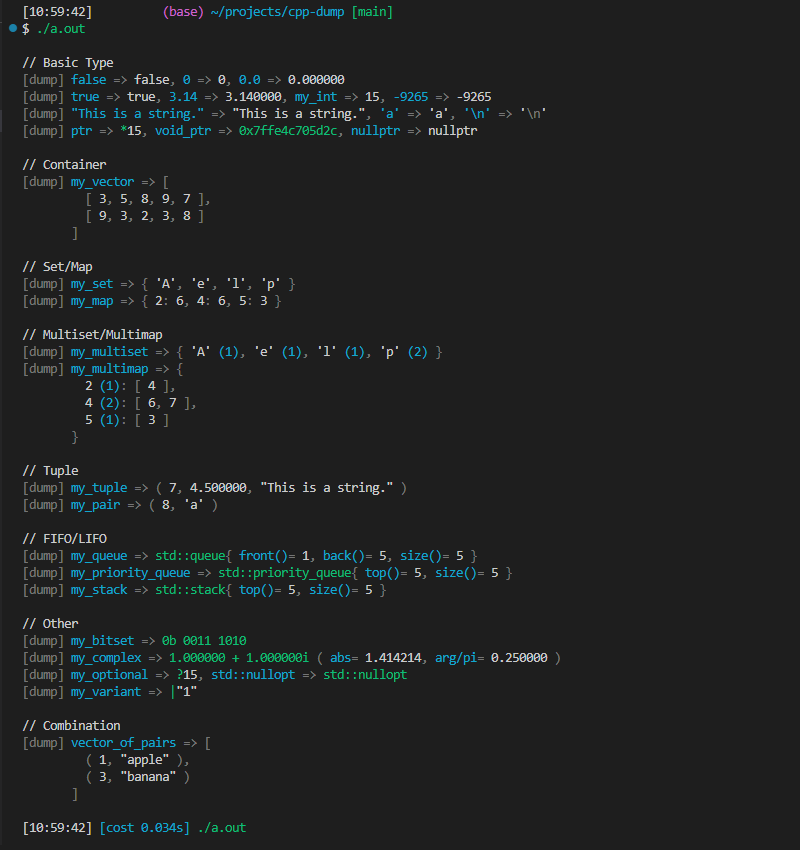
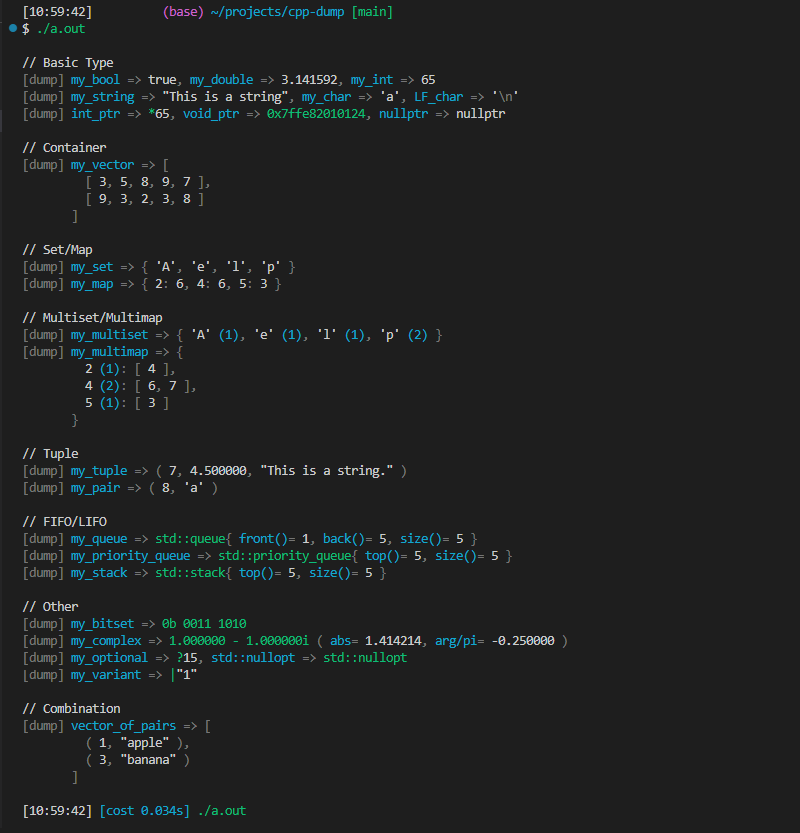
improve README.md

diff --git a/readme/customizable-colors.cpp b/readme/customizable-colors.cpp
@@ -50,8 +50,12 @@ int main() {
   // Use a color scheme closer to standard syntax highlighting.
   // CPP_DUMP_SET_OPTION(es_style, cp::types::es_style_t::by_syntax);
 
-  int my_int = 15;
-  int *ptr = &my_int;
+  bool my_bool = true;
+  double my_double = 3.141592;
+  int my_int = 65;
+  char my_char = 'a', LF_char = '\n';
+  std::string my_string = "This is a string";
+  int *int_ptr = &my_int;
   void *void_ptr = &my_int;
   std::vector<std::vector<int>> my_vector{{3, 5, 8, 9, 7}, {9, 3, 2, 3, 8}};
   std::set<char> my_set{'A', 'p', 'p', 'l', 'e'};
@@ -65,14 +69,14 @@ int main() {
   std::stack<int> my_stack;
   for (auto v : {1, 2, 3, 4, 5}) my_queue.push(v), my_priority_queue.push(v), my_stack.push(v);
   std::bitset<8> my_bitset(0x3a);
-  std::complex<double> my_complex{1.0, 1.0};
+  std::complex<double> my_complex{1.0, -1.0};
   std::optional<int> my_optional{15};
   std::variant<int, std::string> my_variant{"1"};
   std::vector<std::pair<int, std::string>> vector_of_pairs{{1, "apple"}, {3, "banana"}};
 
   std::clog << "\n// Basic Type" << std::endl;
-  cpp_dump(false, 0, 0.0), cpp_dump(true, 3.14, my_int, -9265);
-  cpp_dump("This is a string.", 'a', '\n'), cpp_dump(ptr, void_ptr, nullptr);
+  cpp_dump(my_bool, my_double, my_int), cpp_dump(my_string, my_char, LF_char);
+  cpp_dump(int_ptr, void_ptr, nullptr);
 
   std::clog << "\n// Container" << std::endl;
   cpp_dump(my_vector);

diff --git a/readme/no-es.cpp b/readme/no-es.cpp
@@ -18,8 +18,12 @@ namespace cp = cpp_dump;
 int main() {
   CPP_DUMP_SET_OPTION(es_style, cp::types::es_style_t::no_es);
 
-  int my_int = 15;
-  int *ptr = &my_int;
+  bool my_bool = true;
+  double my_double = 3.141592;
+  int my_int = 65;
+  char my_char = 'a', LF_char = '\n';
+  std::string my_string = "This is a string";
+  int *int_ptr = &my_int;
   void *void_ptr = &my_int;
   std::vector<std::vector<int>> my_vector{{3, 5, 8, 9, 7}, {9, 3, 2, 3, 8}};
   std::set<char> my_set{'A', 'p', 'p', 'l', 'e'};
@@ -33,14 +37,14 @@ int main() {
   std::stack<int> my_stack;
   for (auto v : {1, 2, 3, 4, 5}) my_queue.push(v), my_priority_queue.push(v), my_stack.push(v);
   std::bitset<8> my_bitset(0x3a);
-  std::complex<double> my_complex{1.0, 1.0};
+  std::complex<double> my_complex{1.0, -1.0};
   std::optional<int> my_optional{15};
   std::variant<int, std::string> my_variant{"1"};
   std::vector<std::pair<int, std::string>> vector_of_pairs{{1, "apple"}, {3, "banana"}};
 
   std::clog << "\n// Basic Type" << std::endl;
-  cpp_dump(false, 0, 0.0), cpp_dump(true, 3.14, my_int, -9265);
-  cpp_dump("This is a string.", 'a', '\n'), cpp_dump(ptr, void_ptr, nullptr);
+  cpp_dump(my_bool, my_double, my_int), cpp_dump(my_string, my_char, LF_char);
+  cpp_dump(int_ptr, void_ptr, nullptr);
 
   std::clog << "\n// Container" << std::endl;
   cpp_dump(my_vector);

diff --git a/readme/supports-various-types.cpp b/readme/supports-various-types.cpp
@@ -15,8 +15,12 @@
 #include "../cpp-dump.hpp"
 
 int main() {
-  int my_int = 15;
-  int *ptr = &my_int;
+  bool my_bool = true;
+  double my_double = 3.141592;
+  int my_int = 65;
+  char my_char = 'a', LF_char = '\n';
+  std::string my_string = "This is a string";
+  int *int_ptr = &my_int;
   void *void_ptr = &my_int;
   std::vector<std::vector<int>> my_vector{{3, 5, 8, 9, 7}, {9, 3, 2, 3, 8}};
   std::set<char> my_set{'A', 'p', 'p', 'l', 'e'};
@@ -30,14 +34,14 @@ int main() {
   std::stack<int> my_stack;
   for (auto v : {1, 2, 3, 4, 5}) my_queue.push(v), my_priority_queue.push(v), my_stack.push(v);
   std::bitset<8> my_bitset(0x3a);
-  std::complex<double> my_complex{1.0, 1.0};
+  std::complex<double> my_complex{1.0, -1.0};
   std::optional<int> my_optional{15};
   std::variant<int, std::string> my_variant{"1"};
   std::vector<std::pair<int, std::string>> vector_of_pairs{{1, "apple"}, {3, "banana"}};
 
   std::clog << "\n// Basic Type" << std::endl;
-  cpp_dump(false, 0, 0.0), cpp_dump(true, 3.14, my_int, -9265);
-  cpp_dump("This is a string.", 'a', '\n'), cpp_dump(ptr, void_ptr, nullptr);
+  cpp_dump(my_bool, my_double, my_int), cpp_dump(my_string, my_char, LF_char);
+  cpp_dump(int_ptr, void_ptr, nullptr);
 
   std::clog << "\n// Container" << std::endl;
   cpp_dump(my_vector);

diff --git a/README.md b/README.md
@@ -89,15 +89,35 @@ cpp_dump(my_vector);
 
 ### A wide variety of supported types
 
-cpp-dump supports a wide variety of types. Also, it supports nested containers of any combination of the types. Their string representation is similar to JavaScript, Python, and C++ syntax, which is easy to read.  
+cpp-dump supports a wide variety of types, including multi-D vectors, (multi)maps, (multi)sets, and tuples.  
+Their string representation is similar to JavaScript, Python, and C++ syntax, which is easy to read.  
 [See All Supported Types](#supported-types)  
 [See Full Example Code](./readme/supports-various-types.cpp)
 
 ```cpp
-// See the full example code for the definitions of the variables.
+bool my_bool = true; double my_double = 3.141592; int my_int = 65;
+char my_char = 'a', LF_char = '\n'; std::string my_string = "This is a string";
+int *int_ptr = &my_int; void *void_ptr = &my_int;
+std::vector<std::vector<int>> my_vector{{3, 5, 8, 9, 7}, {9, 3, 2, 3, 8}};
+std::set<char> my_set{'A', 'p', 'p', 'l', 'e'};
+std::map<int, int> my_map{{2, 6}, {4, 6}, {5, 3}};
+std::multiset<char> my_multiset{'A', 'p', 'p', 'l', 'e'};
+std::multimap<int, int> my_multimap{{2, 4}, {4, 6}, {5, 3}, {4, 7}};
+std::pair<int, char> my_pair{8, 'a'};
+std::tuple<int, double, std::string> my_tuple{7, 4.5, "This is a string."};
+std::queue<int> my_queue;
+std::priority_queue<int> my_priority_queue;
+std::stack<int> my_stack;
+for (auto v : {1, 2, 3, 4, 5}) my_queue.push(v), my_priority_queue.push(v), my_stack.push(v);
+std::bitset<8> my_bitset(0x3a);
+std::complex<double> my_complex{1.0, -1.0};
+std::optional<int> my_optional{15};
+std::variant<int, std::string> my_variant{"1"};
+std::vector<std::pair<int, std::string>> vector_of_pairs{{1, "apple"}, {3, "banana"}};
+
 std::clog << "\n// Basic Type" << std::endl;
-cpp_dump(false, 0, 0.0); cpp_dump(true, 3.14, my_int, -9265);
-cpp_dump("This is a string.", 'a', '\n'); cpp_dump(ptr, void_ptr, nullptr);
+cpp_dump(my_bool, my_double, my_int); cpp_dump(my_string, my_char, LF_char);
+cpp_dump(int_ptr, void_ptr, nullptr);
 
 std::clog << "\n// Container" << std::endl;
 cpp_dump(my_vector);
@@ -126,7 +146,9 @@ cpp_dump(vector_of_pairs);
 
 ### Auto indent
 
-cpp-dump automatically indents so that the output does not exceed the maximum width. [See Full Example Code](./readme/auto-indent.cpp)
+cpp-dump automatically indents so that the output does not exceed the maximum width.  
+(Nested containers are indented by default, but this behavior can be changed through [the settings](#cont_indent_style).)  
+[See Full Example Code](./readme/auto-indent.cpp)
 
 ```cpp
 cpp_dump(my_vector);
@@ -1116,10 +1138,10 @@ cpp_dump() prints variables recursively, so they can dump nested variables of an
 | ------------- | ----------------------------------------------------------------------------------------------------------------------------------------------------------------------------------------------------------------------------------------------------------------------------------------------------- | ------------------------------------------------- |
 | Arithmetic    | `std::is_arithmetic_v<T> == true`                                                                                                                                                                                                                                                                     | `bool`, `char`, `int`, `long`, `float`, `double`  |
 | String        | T is convertible to `std::string_view`                                                                                                                                                                                                                                                                | `std::string`, `const char *`, `std::string_view` |
-| Container     | T is compatible with the range-based for loop                                                                                                                                                                                                                                                         | `std::vector`, `std::array`, C-style arrays       |
+| Container     | T is compatible with the range-based for loop                                                                                                                                                                                                                                                         | `std::vector`, `std::list`, C-style arrays        |
 | Map           | T is either `std::map`, `std::unordered_map`, `std::multimap`, or `std::unordered_multimap`                                                                                                                                                                                                           |                                                   |
 | Set           | T is either `std::set`, `std::unordered_set`, `std::multiset`, or `std::unordered_multiset`                                                                                                                                                                                                           |                                                   |
-| Tuple         | T is compatible with `std::tuple_size_v<T>`                                                                                                                                                                                                                                                           | `std::tuple`, `std::pair`                         |
+| Tuple         | T is compatible with `std::tuple_size_v<T>`                                                                                                                                                                                                                                                           | `std::tuple`, `std::pair`, User-defined tuples    |
 | FIFO/LIFO     | T is either `std::queue`, `std::priority_queue`, or `std::stack`                                                                                                                                                                                                                                      |                                                   |
 | Pointer       | T is a pointer or smart pointer                                                                                                                                                                                                                                                                       | `int *`, `std::shared_ptr`, `std::unique_ptr`     |
 | Reference     | T is `std::reference_wrapper`                                                                                                                                                                                                                                                                         |                                                   |
